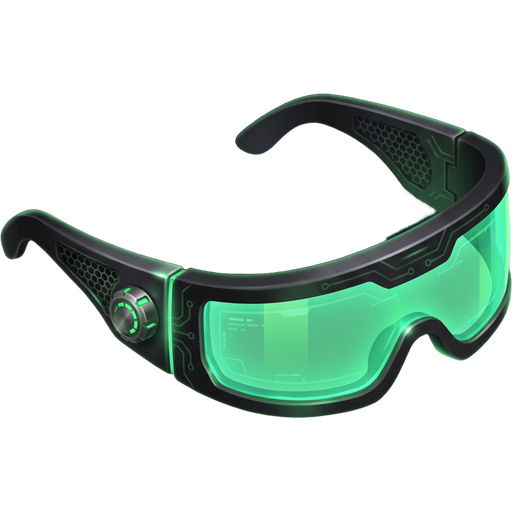
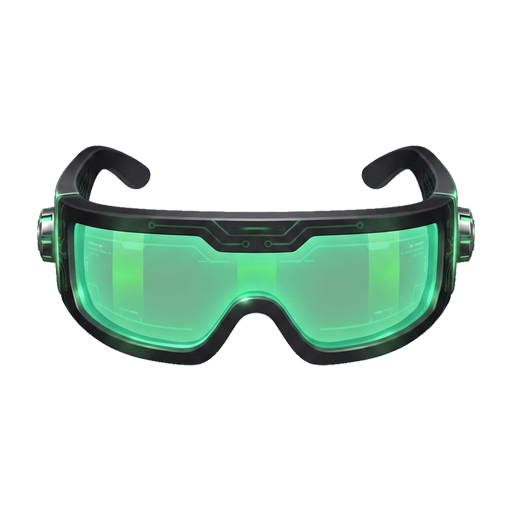
feat: add companion gear art and fix mascot anchors

diff --git a/src/components/kinetic/mascot3d/MascotScene.ts b/src/components/kinetic/mascot3d/MascotScene.ts
@@ -414,7 +414,7 @@ export class MascotScene {
       kora: {
         // Calibrated against Kora's cat silhouette and mirrored in iOS 13.
         // The previous depth made the right cup look detached at her neck.
-        headset: { p: [0, 0.58 * R, 0.64 * R], size: 0.68 * R },
+        headset: { p: [0, 0.64 * R, 0.72 * R], size: 0.70 * R },
         shoulder: { p: [-0.22 * R, 0.14 * R, 0.78 * R], size: 0.28 * R },
         hand: { p: [0.24 * R, -0.46 * R, 0.80 * R], size: 0.30 * R },
       },
@@ -423,12 +423,12 @@ export class MascotScene {
         shoulder: { p: [-0.32 * R, 0.20 * R, 0.72 * R], size: 0.29 * R },
         head: { p: [0, 1.02 * R, 0.08 * R], size: 0.38 * R },
       },
-      glitch: { hand: { p: [0.62 * R, -0.34 * R, 0.60 * R], size: 0.38 * R }, chest: { p: [0, 0.05 * R, 0.92 * R], size: 0.36 * R } },
-      momo: { hand: { p: [0.58 * R, -0.22 * R, 0.62 * R], size: 0.36 * R }, face: { p: [0, 0.20 * R, 0.94 * R], size: 0.58 * R }, head: { p: [0, 0.98 * R, 0.08 * R], size: 0.40 * R } },
-      flux: { hand: { p: [0.58 * R, -0.30 * R, 0.62 * R], size: 0.34 * R }, chest: { p: [0, -0.02 * R, 0.92 * R], size: 0.36 * R }, head: { p: [0, 1.10 * R, 0.08 * R], size: 0.38 * R } },
-      rook: { chest: { p: [0, 0.18 * R, 0.94 * R], size: 0.36 * R }, head: { p: [0, 1.06 * R, 0.08 * R], size: 0.38 * R }, hand: { p: [0.60 * R, -0.48 * R, 0.58 * R], size: 0.36 * R } },
-      halo: { chest: { p: [0, 0, 0.94 * R], size: 0.40 * R }, shoulder: { p: [-0.66 * R, 0.10 * R, 0.56 * R], size: 0.34 * R }, head: { p: [0, 0.96 * R, 0.08 * R], size: 0.40 * R } },
-      axiom: { hand: { p: [0.62 * R, -0.28 * R, 0.62 * R], size: 0.34 * R }, chest: { p: [0, 0.04 * R, 0.94 * R], size: 0.34 * R }, head: { p: [0, 1.00 * R, 0.08 * R], size: 0.38 * R } },
+      glitch: { hand: { p: [0.54 * R, -0.34 * R, 0.66 * R], size: 0.44 * R }, chest: { p: [0, 0.05 * R, 0.92 * R], size: 0.36 * R } },
+      momo: { hand: { p: [0.50 * R, -0.22 * R, 0.68 * R], size: 0.44 * R }, face: { p: [0, 0.20 * R, 0.94 * R], size: 0.58 * R }, head: { p: [0, 1.08 * R, 0.30 * R], size: 0.40 * R } },
+      flux: { hand: { p: [0.50 * R, -0.30 * R, 0.68 * R], size: 0.40 * R }, chest: { p: [0, -0.02 * R, 0.92 * R], size: 0.36 * R }, head: { p: [0, 1.10 * R, 0.08 * R], size: 0.38 * R } },
+      rook: { chest: { p: [0, 0.18 * R, 0.94 * R], size: 0.36 * R }, head: { p: [0, 1.10 * R, 0.30 * R], size: 0.38 * R }, hand: { p: [0.52 * R, -0.48 * R, 0.64 * R], size: 0.42 * R } },
+      halo: { chest: { p: [0, 0, 0.94 * R], size: 0.40 * R }, shoulder: { p: [-0.66 * R, 0.10 * R, 0.56 * R], size: 0.34 * R }, head: { p: [0, 1.06 * R, 0.30 * R], size: 0.40 * R } },
+      axiom: { hand: { p: [0.54 * R, -0.28 * R, 0.68 * R], size: 0.40 * R }, chest: { p: [0, 0.04 * R, 0.94 * R], size: 0.34 * R }, head: { p: [0, 1.08 * R, 0.30 * R], size: 0.38 * R } },
     };
     const profile = profiles[this.avatarId] ?? {};
     const loader = new TextureLoader();
@@ -442,7 +442,7 @@ export class MascotScene {
       // art but actually inherits the character's rotation like worn gear.
       const sprite = item.slot === 'pet'
         ? new Sprite(new SpriteMaterial({ map: tex, transparent: true, depthWrite: false }))
-        : new Mesh(new PlaneGeometry(1, 1), new MeshBasicMaterial({ map: tex, transparent: true, depthWrite: false, side: DoubleSide }));
+        : new Mesh(new PlaneGeometry(1, 1), new MeshBasicMaterial({ map: tex, transparent: true, depthWrite: false, depthTest: false, side: DoubleSide }));
       sprite.position.set(a.p[0], a.p[1], a.p[2]);
       sprite.scale.set(a.size, a.size, 1);
       sprite.renderOrder = 10 + i;
@@ -450,7 +450,7 @@ export class MascotScene {
       if (item.spin) this.spinners.push(sprite);
       this.gearGroup.add(sprite);
       if (item.glow) {
-        const glowMat = new MeshBasicMaterial({ map: tex, transparent: true, depthWrite: false, side: DoubleSide, color: new Color(item.glow), opacity: 0.35, blending: AdditiveBlending });
+        const glowMat = new MeshBasicMaterial({ map: tex, transparent: true, depthWrite: false, depthTest: false, side: DoubleSide, color: new Color(item.glow), opacity: 0.35, blending: AdditiveBlending });
         const glow = new Mesh(new PlaneGeometry(1, 1), glowMat);
         glow.scale.set(a.size * 1.35, a.size * 1.35, 1);
         glow.position.set(a.p[0], a.p[1], a.p[2] - 0.01);

diff --git a/src/lib/companions/data.ts b/src/lib/companions/data.ts
@@ -92,8 +92,8 @@ export interface CompanionTool { companionId: string; tier: 1 | 2 | 3; name: Bi;
 
 export function toolUnlockXP(tier: number): number { return tier === 1 ? 1 : (tier - 1) * 100; }
 export function toolArt(tool: CompanionTool): string { return `/tools/tool_${tool.companionId}_${tool.tier}.png`; }
-/** Only the four starters have Higgsfield art today; the rest use a glyph until generated. */
-export const TOOL_ART_AVAILABLE = new Set(['orb', 'byte', 'kora', 'zip']);
+/** Every companion has Higgsfield art (tools + pet); the glyph path stays as a fallback for new companions. */
+export const TOOL_ART_AVAILABLE = new Set(['orb', 'byte', 'kora', 'zip', 'glitch', 'momo', 'flux', 'rook', 'halo', 'axiom']);
 export function toolHasArt(tool: CompanionTool): boolean { return TOOL_ART_AVAILABLE.has(tool.companionId); }
 export function toolTierLabel(tier: number): Bi {
   return tier === 1 ? { en: 'COMMON', es: 'COMÚN' } : tier === 2 ? { en: 'RARE', es: 'RARO' } : { en: 'GOLDEN', es: 'DORADO' };
@@ -202,7 +202,7 @@ export function glyphSprite(glyph: string, tint: string): string {
   glyphCache.set(key, url);
   return url;
 }
-export const PET_ART_AVAILABLE = new Set(['orb', 'byte', 'kora', 'zip']);
+export const PET_ART_AVAILABLE = new Set(['orb', 'byte', 'kora', 'zip', 'glitch', 'momo', 'flux', 'rook', 'halo', 'axiom']);
 export function petArt(companionId: string): string | null { return PET_ART_AVAILABLE.has(companionId) ? `/pets/pet_${companionId}.png` : null; }
 export function newlyUnlockedTools(companionId: string, fromXP: number, toXP: number): CompanionTool[] {
   return toolsFor(companionId).filter((tool) => fromXP < toolUnlockXP(tool.tier) && toXP >= toolUnlockXP(tool.tier));
